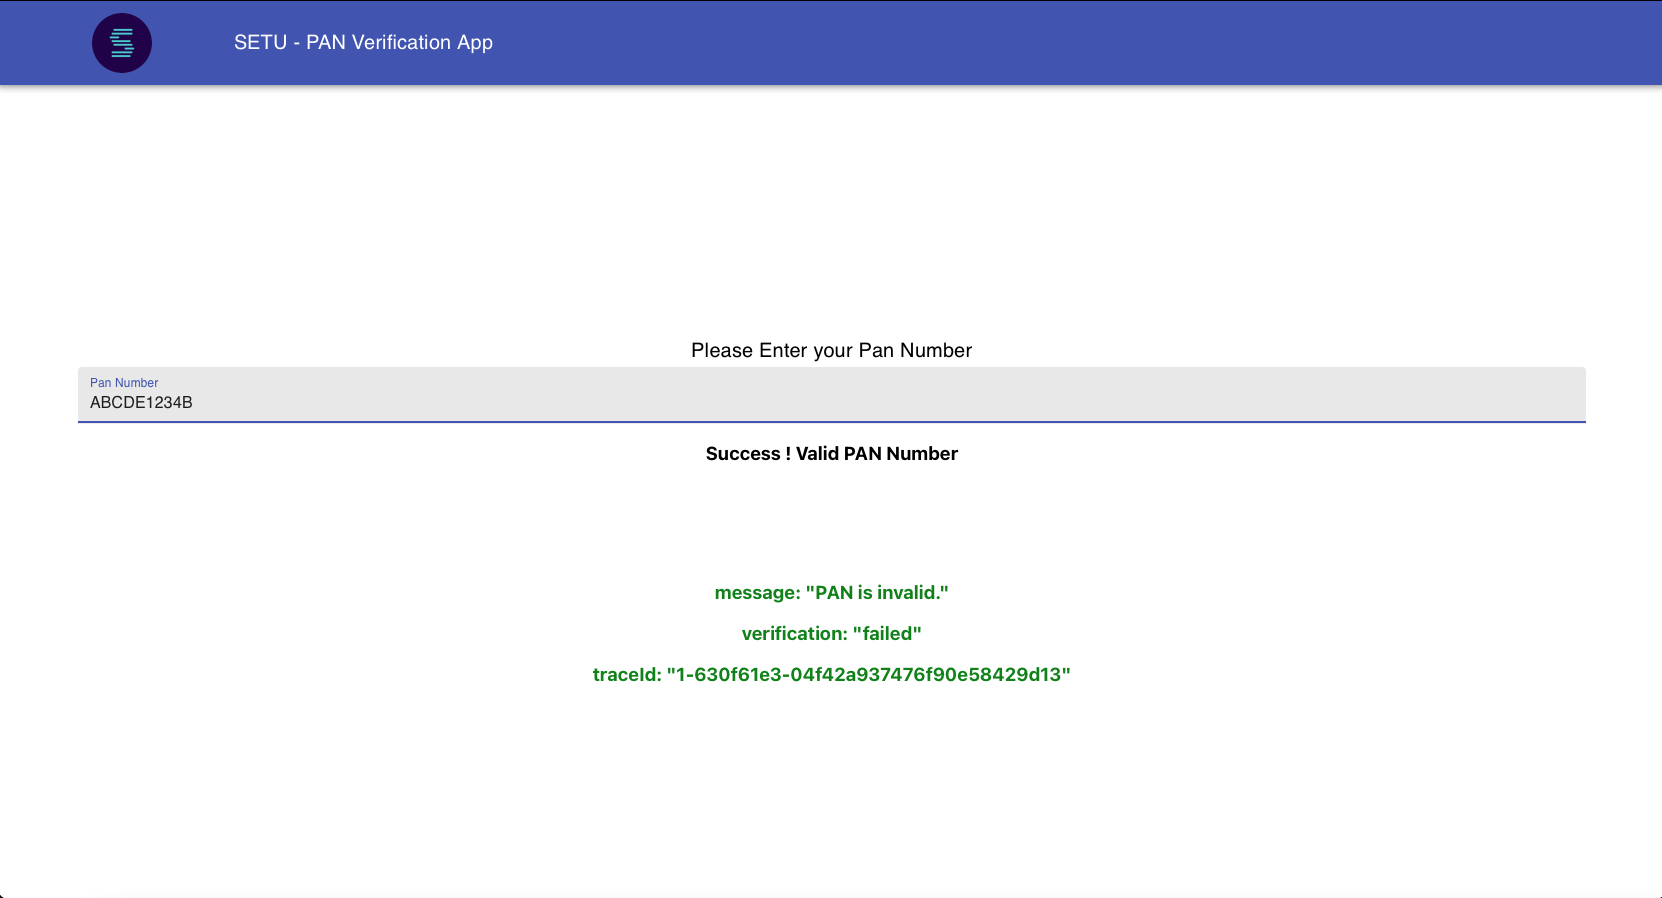
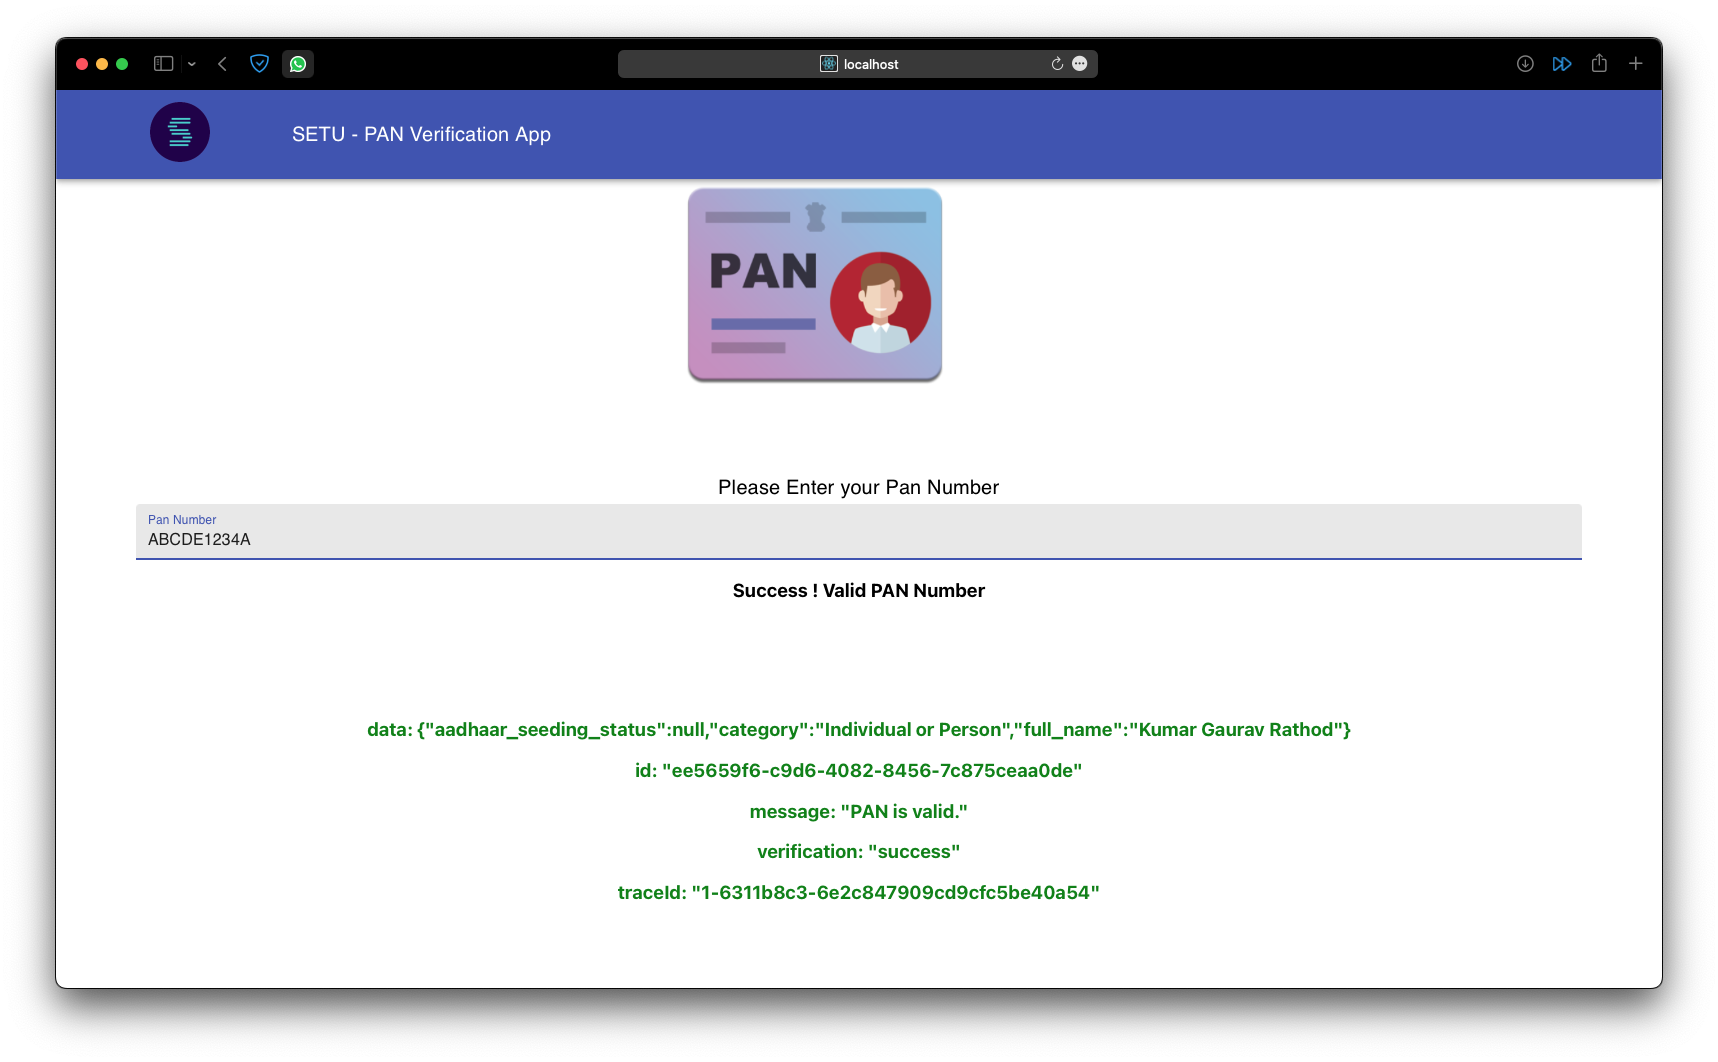
readme and mockups updated

Changed region(s): [[0.0, 0.0, 1.0, 0.9666], [0.2148, 0.6548, 0.7671, 0.8731]]

diff --git a/README.md b/README.md
@@ -12,6 +12,12 @@ In the project directory, you can run :
 Runs the app in the development mode.
 Open [http://localhost:3000](http://localhost:3000) to view it in the browser.
 
+#### Available Routes
+⭐ / - Home
+⭐ /panapp - Pan Verification
+⭐ /banapp - Bank Verification
+Note : Any other URL patterns are automatically redirected to the Route '/'
+
 ## To setup Backend
 In the project directory, you can run:
 
@@ -19,11 +25,11 @@ In the project directory, you can run:
 #### `python3 makemigrations`
 #### `python3 migrate`
 #### `python3 manage.py runserver`
-
 Runs the app in the development mode.
 
-PAN API ENDPOINT : [http://127.0.0.1:8000/panverify/](http://127.0.0.1:8000/panverify/)
-BANK API ENDPOINT : [http://127.0.0.1:8000/banverify/](http://127.0.0.1:8000/banverify/)
+#### Available API Endpoint
+⭐ PAN API ENDPOINT - [http://127.0.0.1:8000/panverify/](http://127.0.0.1:8000/panverify/)
+⭐ BANK API ENDPOINT - [http://127.0.0.1:8000/banverify/](http://127.0.0.1:8000/banverify/)
 
 <hr>
 <h2><strong>Sample Design</strong></h2>
